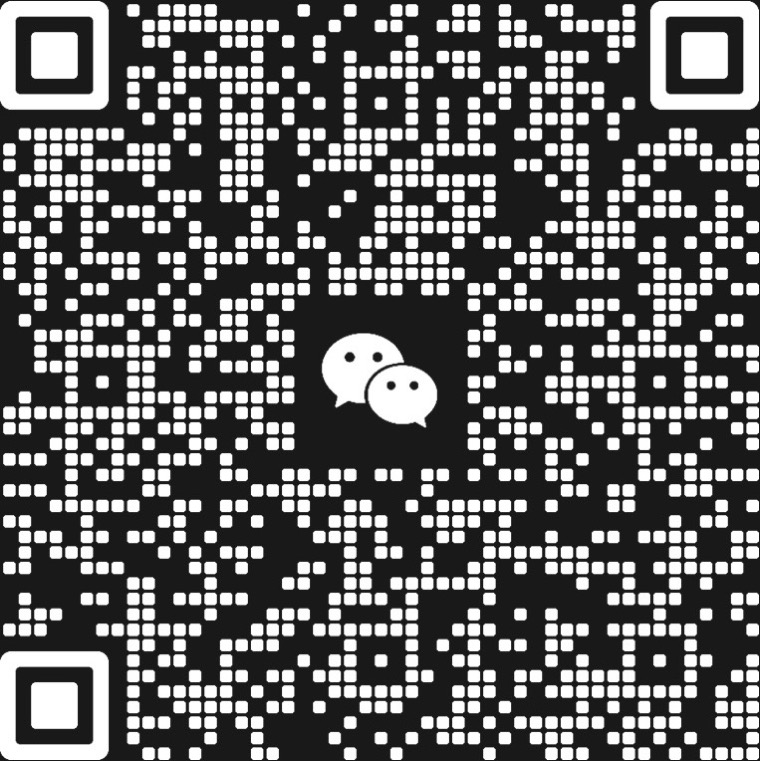
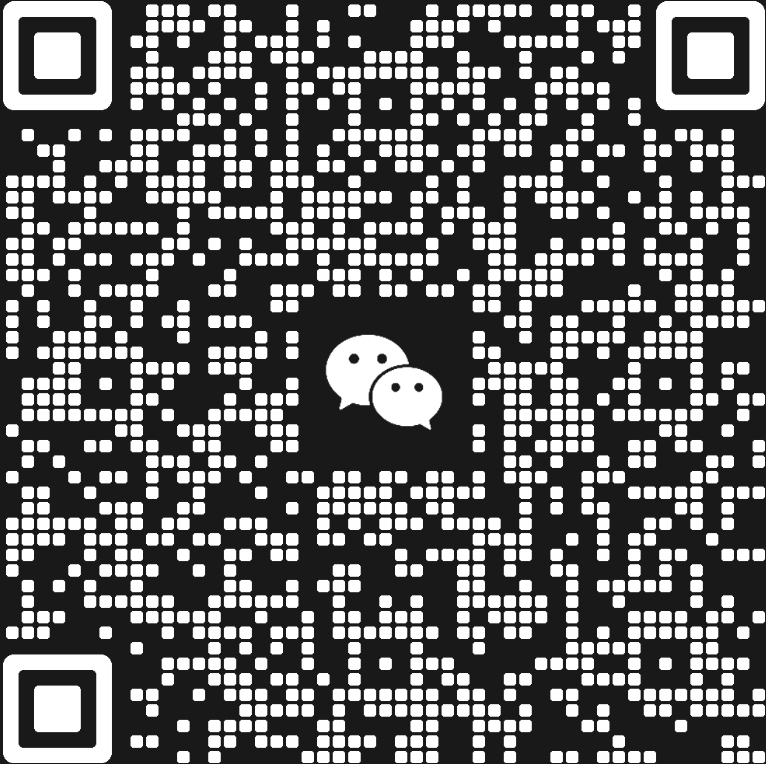
Update wechat QR codes and add spacing between them in README
- Refresh star-history chart and backup WeChat QR image assets
- Add spacing between the primary and backup WeChat QR codes in both README.md and README.zh-CN.md

diff --git a/README.md b/README.md
@@ -241,6 +241,7 @@ Pair with your desktop app to monitor and steer your agents from your phone.
 - **WeChat:** Scan the QR code to join the community. If the first group is full, use the backup group.
 
   <img src="docs/assets/wechat-qr.png" alt="WeChat QR code for the Orca community" width="160" />
+  &nbsp;&nbsp;&nbsp;
   <img src="docs/assets/wechat-qr-backup.jpg" alt="Backup WeChat QR code for the Orca community" width="160" />
 
 - **Feedback &amp; Ideas:** We ship fast. Missing something? [Request a new feature](https://github.com/stablyai/orca/issues).

diff --git a/docs/readme/README.zh-CN.md b/docs/readme/README.zh-CN.md
@@ -238,6 +238,7 @@ yay -S stably-orca-bin
 - **微信:** 扫描二维码加入社区。如果第一个群已满，请使用备用微信群。
 
   <img src="../assets/wechat-qr.png" alt="Orca 社区微信群二维码" width="160" />
+  &nbsp;&nbsp;&nbsp;
   <img src="../assets/wechat-qr-backup.jpg" alt="Orca 社区备用微信群二维码" width="160" />
 
 - **反馈与想法:** 我们发布很快。缺少什么功能？[提交功能请求](https://github.com/stablyai/orca/issues)。
